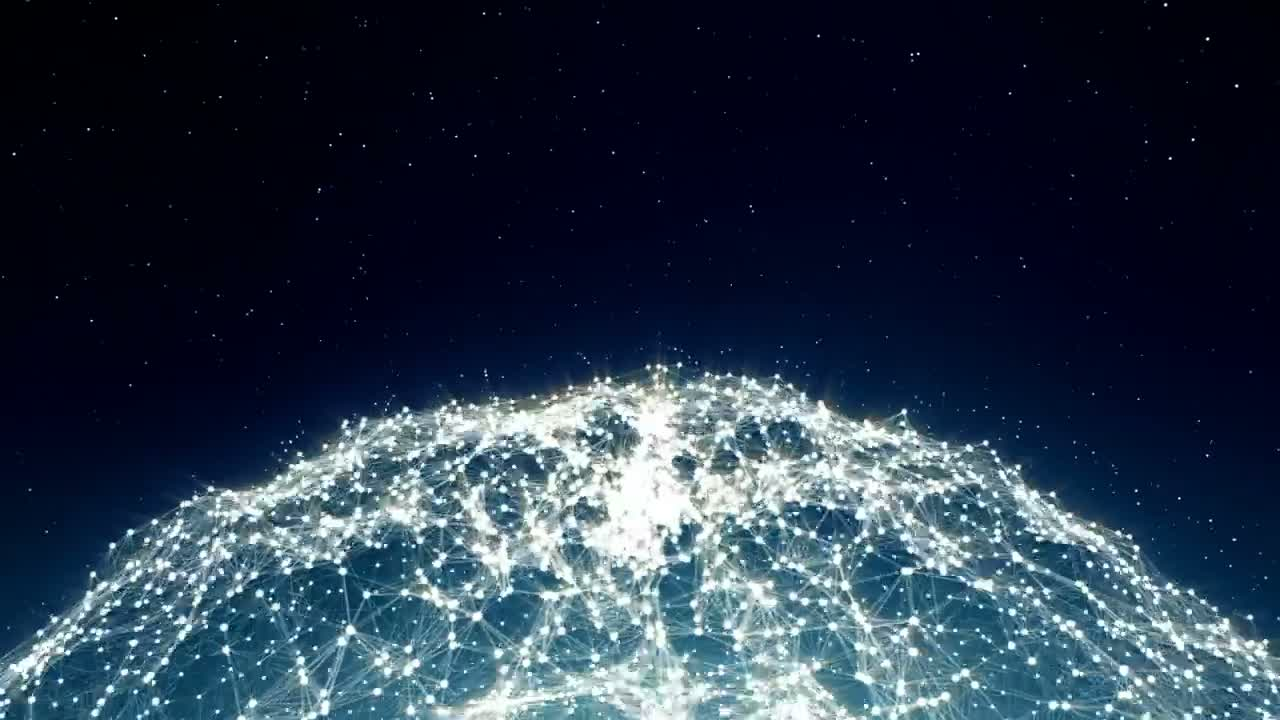
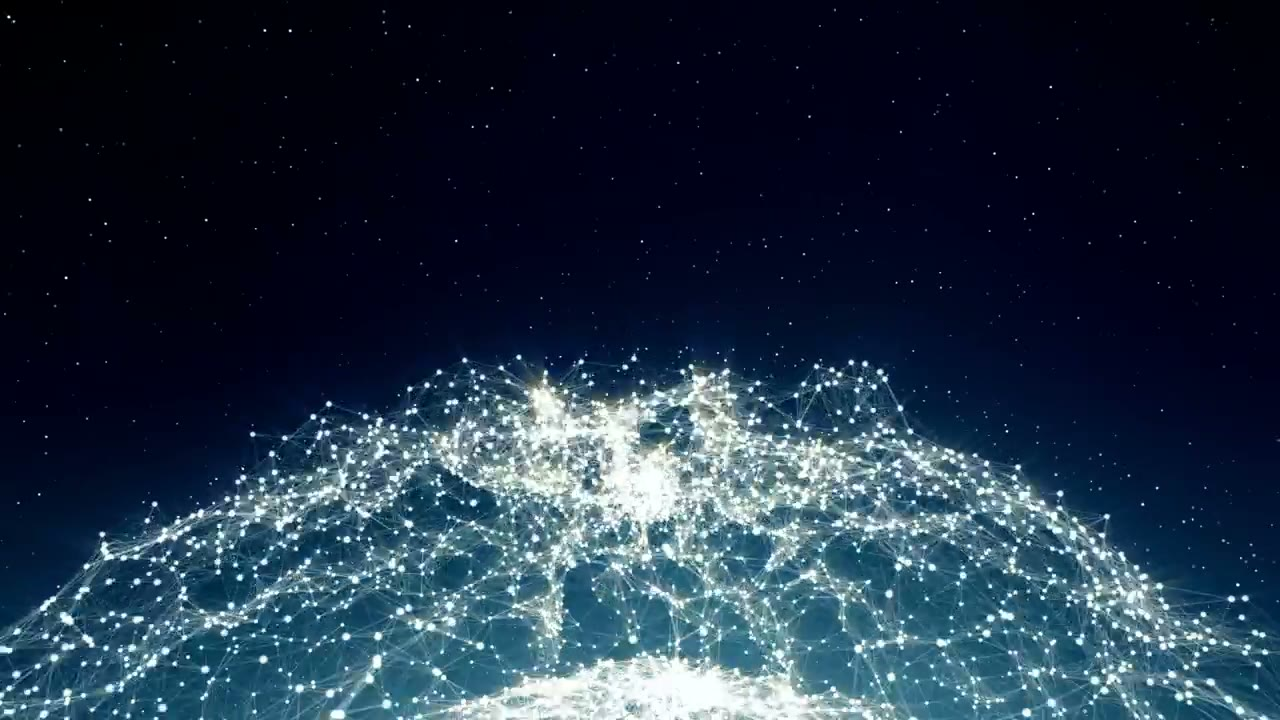
fix(landing): fallback imagen dorada si no autoplay (nunca boton play) + video 1080 mejor calidad + poster HQ

Changed region(s): [[0.0, 0.4889, 1.0, 1.0]]

diff --git a/index.html b/index.html
@@ -759,10 +759,11 @@ html{scroll-behavior:smooth}
 </style>
 
 <style id="hero-video-css">
-section.hero .wrap{position:relative;z-index:2}
+section.hero .wrap{position:relative;z-index:3}
 section.hero h1{text-shadow:0 2px 16px rgba(0,0,0,.85),0 0 30px rgba(0,0,0,.5)!important}
 section.hero p.sub{color:#FFFFFF!important;font-weight:500!important;text-shadow:0 1px 2px #000,0 2px 10px rgba(0,0,0,.9),0 0 22px rgba(0,0,0,.6)!important}
 #herovid::-webkit-media-controls,#herovid::-webkit-media-controls-start-playback-button{display:none!important;-webkit-appearance:none!important;opacity:0!important}
+section.hero::before{content:'';position:absolute;inset:0;z-index:0;background:url('assets/video/globo_poster.jpg') center/cover;filter:sepia(1) saturate(2.6) hue-rotate(-12deg) brightness(1.18) contrast(1.05);opacity:.80;pointer-events:none}
 </style>
 </head>
 <body>
@@ -947,8 +948,8 @@ section.hero p.sub{color:#FFFFFF!important;font-weight:500!important;text-shadow
 <!-- ===== BLOQUE 2: HERO ===== -->
 <!-- ===== BLOQUE 2: HERO ===== -->
 <section class="hero">
-<video id="herovid" autoplay loop muted playsinline webkit-playsinline preload="auto" poster="assets/video/globo_poster.jpg" style="position:absolute;inset:0;width:100%;height:100%;object-fit:cover;object-position:center;z-index:0;opacity:.80;filter:sepia(1) saturate(2.6) hue-rotate(-12deg) brightness(1.18) contrast(1.05)"><source src="assets/video/globo.mp4" type="video/mp4"></video>
-<div style="position:absolute;inset:0;z-index:1;opacity:.10;background:radial-gradient(ellipse 1100px 600px at 70% 35%,rgba(8,4,0,.2) 0%,rgba(8,4,0,.95) 78%)"></div>
+<video id="herovid" autoplay loop muted playsinline webkit-playsinline preload="auto" poster="assets/video/globo_poster.jpg" style="position:absolute;inset:0;width:100%;height:100%;object-fit:cover;object-position:center;z-index:1;opacity:.80;filter:sepia(1) saturate(2.6) hue-rotate(-12deg) brightness(1.18) contrast(1.05)"><source src="assets/video/globo.mp4" type="video/mp4"></video>
+<div style="position:absolute;inset:0;z-index:2;opacity:.10;background:radial-gradient(ellipse 1100px 600px at 70% 35%,rgba(8,4,0,.2) 0%,rgba(8,4,0,.95) 78%)"></div>
 
   <div class="wrap hero-grid">
     <div class="hero-text reveal">
@@ -2733,7 +2734,7 @@ section.hero p.sub{color:#FFFFFF!important;font-weight:500!important;text-shadow
 </script>
 
 <script>
-(function(){var v=document.getElementById('herovid');if(!v)return;v.muted=true;v.defaultMuted=true;v.setAttribute('muted','');v.playsInline=true;function go(){try{v.playbackRate=0.61;}catch(e){}var p=v.play();if(p&&p.catch)p.catch(function(){});}v.addEventListener('loadeddata',go);v.addEventListener('canplay',go);go();['touchstart','click','scroll'].forEach(function(ev){document.addEventListener(ev,function(){go();},{once:true,passive:true});});})();
+(function(){var v=document.getElementById('herovid');if(!v)return;v.muted=true;v.defaultMuted=true;v.setAttribute('muted','');v.playsInline=true;function go(){try{v.playbackRate=0.61;}catch(e){}var p=v.play();if(p&&p.catch)p.catch(function(){v.style.display='none';});}v.addEventListener('loadeddata',go);v.addEventListener('canplay',go);go();['touchstart','click','scroll'].forEach(function(ev){document.addEventListener(ev,function(){go();},{once:true,passive:true});});})();
 </script>
 </body>
 </html>